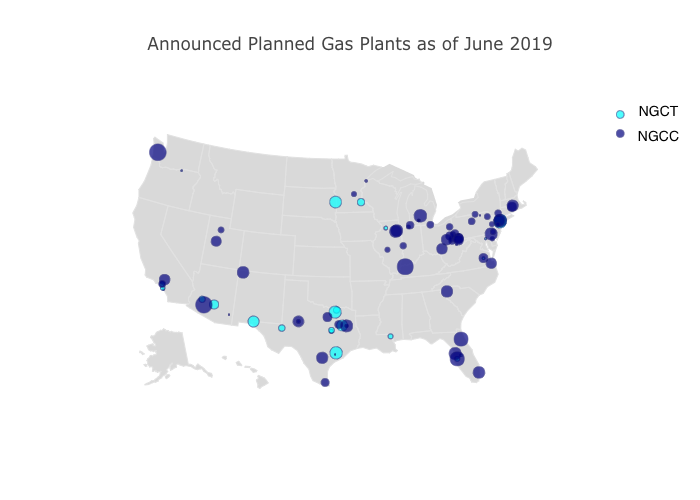
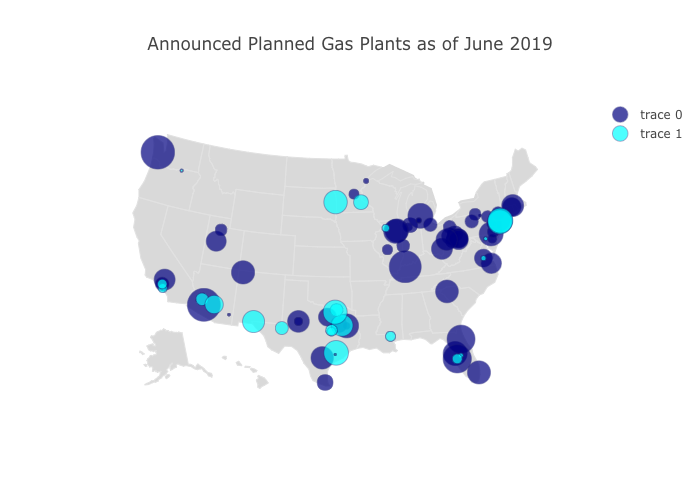
changed plot orders

diff --git a/maps.py b/maps.py
@@ -17,10 +17,10 @@ df1 = df_dsm
 
 dfp = df1.loc[(df1['Scenario'] == scenario), :]
 count = dfp['Data\nCaseInfo\nLatitude'].isnull().sum()
-types = ['NGCT', 'NGCC']
+types = ['NGCC', 'NGCT']
 # print(dfp.loc[(dfp['Data\nCaseInfo\nType'] == types[1]), 'Data\nCaseInfo\nLatitude'])
-colors = ['rgb(0,255,255)', 'rgb(0,0,128)']
-scale = 100
+colors = ['rgb(0,0,128)', 'rgb(0,255,255)']
+scale = 50
 # fig = go.Figure()
 plants = []
 print(range(len(types)))
